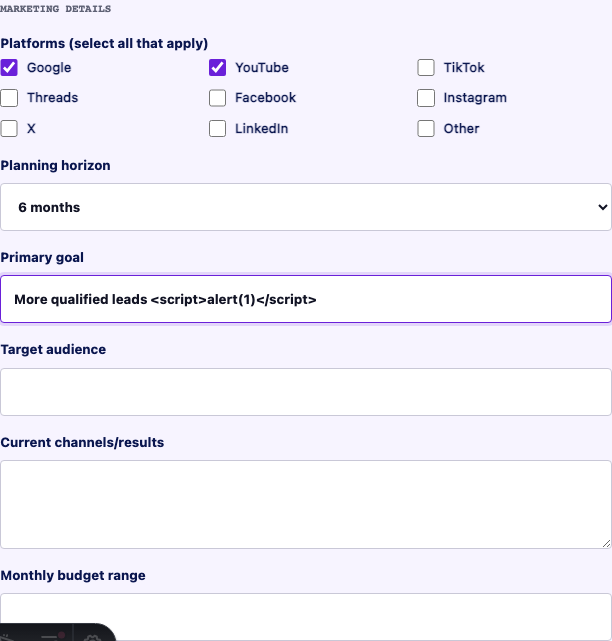
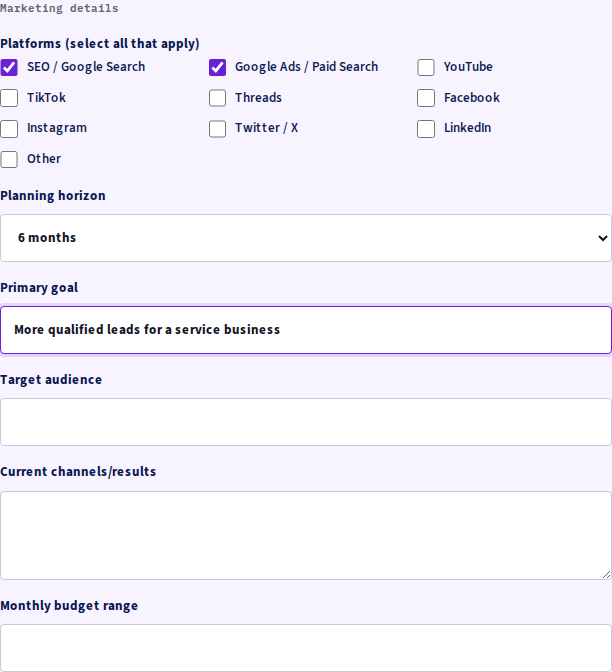
QA: refresh Marketing Brief visual evidence

diff --git a/tests/site.spec.ts b/tests/site.spec.ts
@@ -668,13 +668,20 @@ test("marketing field group supports multiple platforms + 3/6/9/12 horizon and i
   await page.locator('input[name="platforms"][value="SEO / Google Search"]').check();
   await page.locator('input[name="platforms"][value="Google Ads / Paid Search"]').check();
   await page.locator('select[name="planning_horizon"]').selectOption("6 months");
-  await page.locator('input[name="primary_goal"]').fill("More qualified leads <script>alert(1)</script>");
+  const primaryGoal = page.locator('input[name="primary_goal"]');
+await primaryGoal.fill("More qualified leads for a service business");
 
-  if (testInfo.project.name === "desktop") {
-    await page.locator("[data-direction-fields]").screenshot({ path: "docs/screenshots/intake02-marketing-desktop.png" });
-  }
+await page.addStyleTag({
+  content: "[data-header], [data-consent-settings] { visibility: hidden !important; }",
+});
+const evidencePath = testInfo.project.name === "mobile"
+  ? "docs/screenshots/intake02-marketing-mobile.png"
+  : "docs/screenshots/intake02-marketing-desktop.png";
+await page.locator("[data-direction-fields]").screenshot({ path: evidencePath, animations: "disabled" });
 
-  await page.locator('button[type="submit"]').click();
+// Preserve the sanitization contract after clean synthetic visual evidence is captured.
+await primaryGoal.fill("More qualified leads <script>alert(1)</script>");
+await page.locator('button[type="submit"]').click();
 
   await expect(page.locator("[data-contact-handoff]")).toBeVisible();
   await expect(page.locator("[data-handoff-summary]")).toContainText("Platforms: SEO / Google Search, Google Ads / Paid Search");

diff --git a/docs/CURSOR_WORK_LOG.md b/docs/CURSOR_WORK_LOG.md
@@ -128,6 +128,8 @@ npm run test:e2e
 
 ### Screenshots / UI evidence
 - `docs/screenshots/intake02-marketing-desktop.png`
+- `docs/screenshots/intake02-marketing-mobile.png`
+- Evidence refreshed on 2026-08-11 with sticky header and privacy settings hidden only during capture; production UI behavior is unchanged.
 
 ### Assumptions
 - “I am not sure yet” keeps direction-specific fields hidden and produces a copyable summary without an approved primary handoff route.
